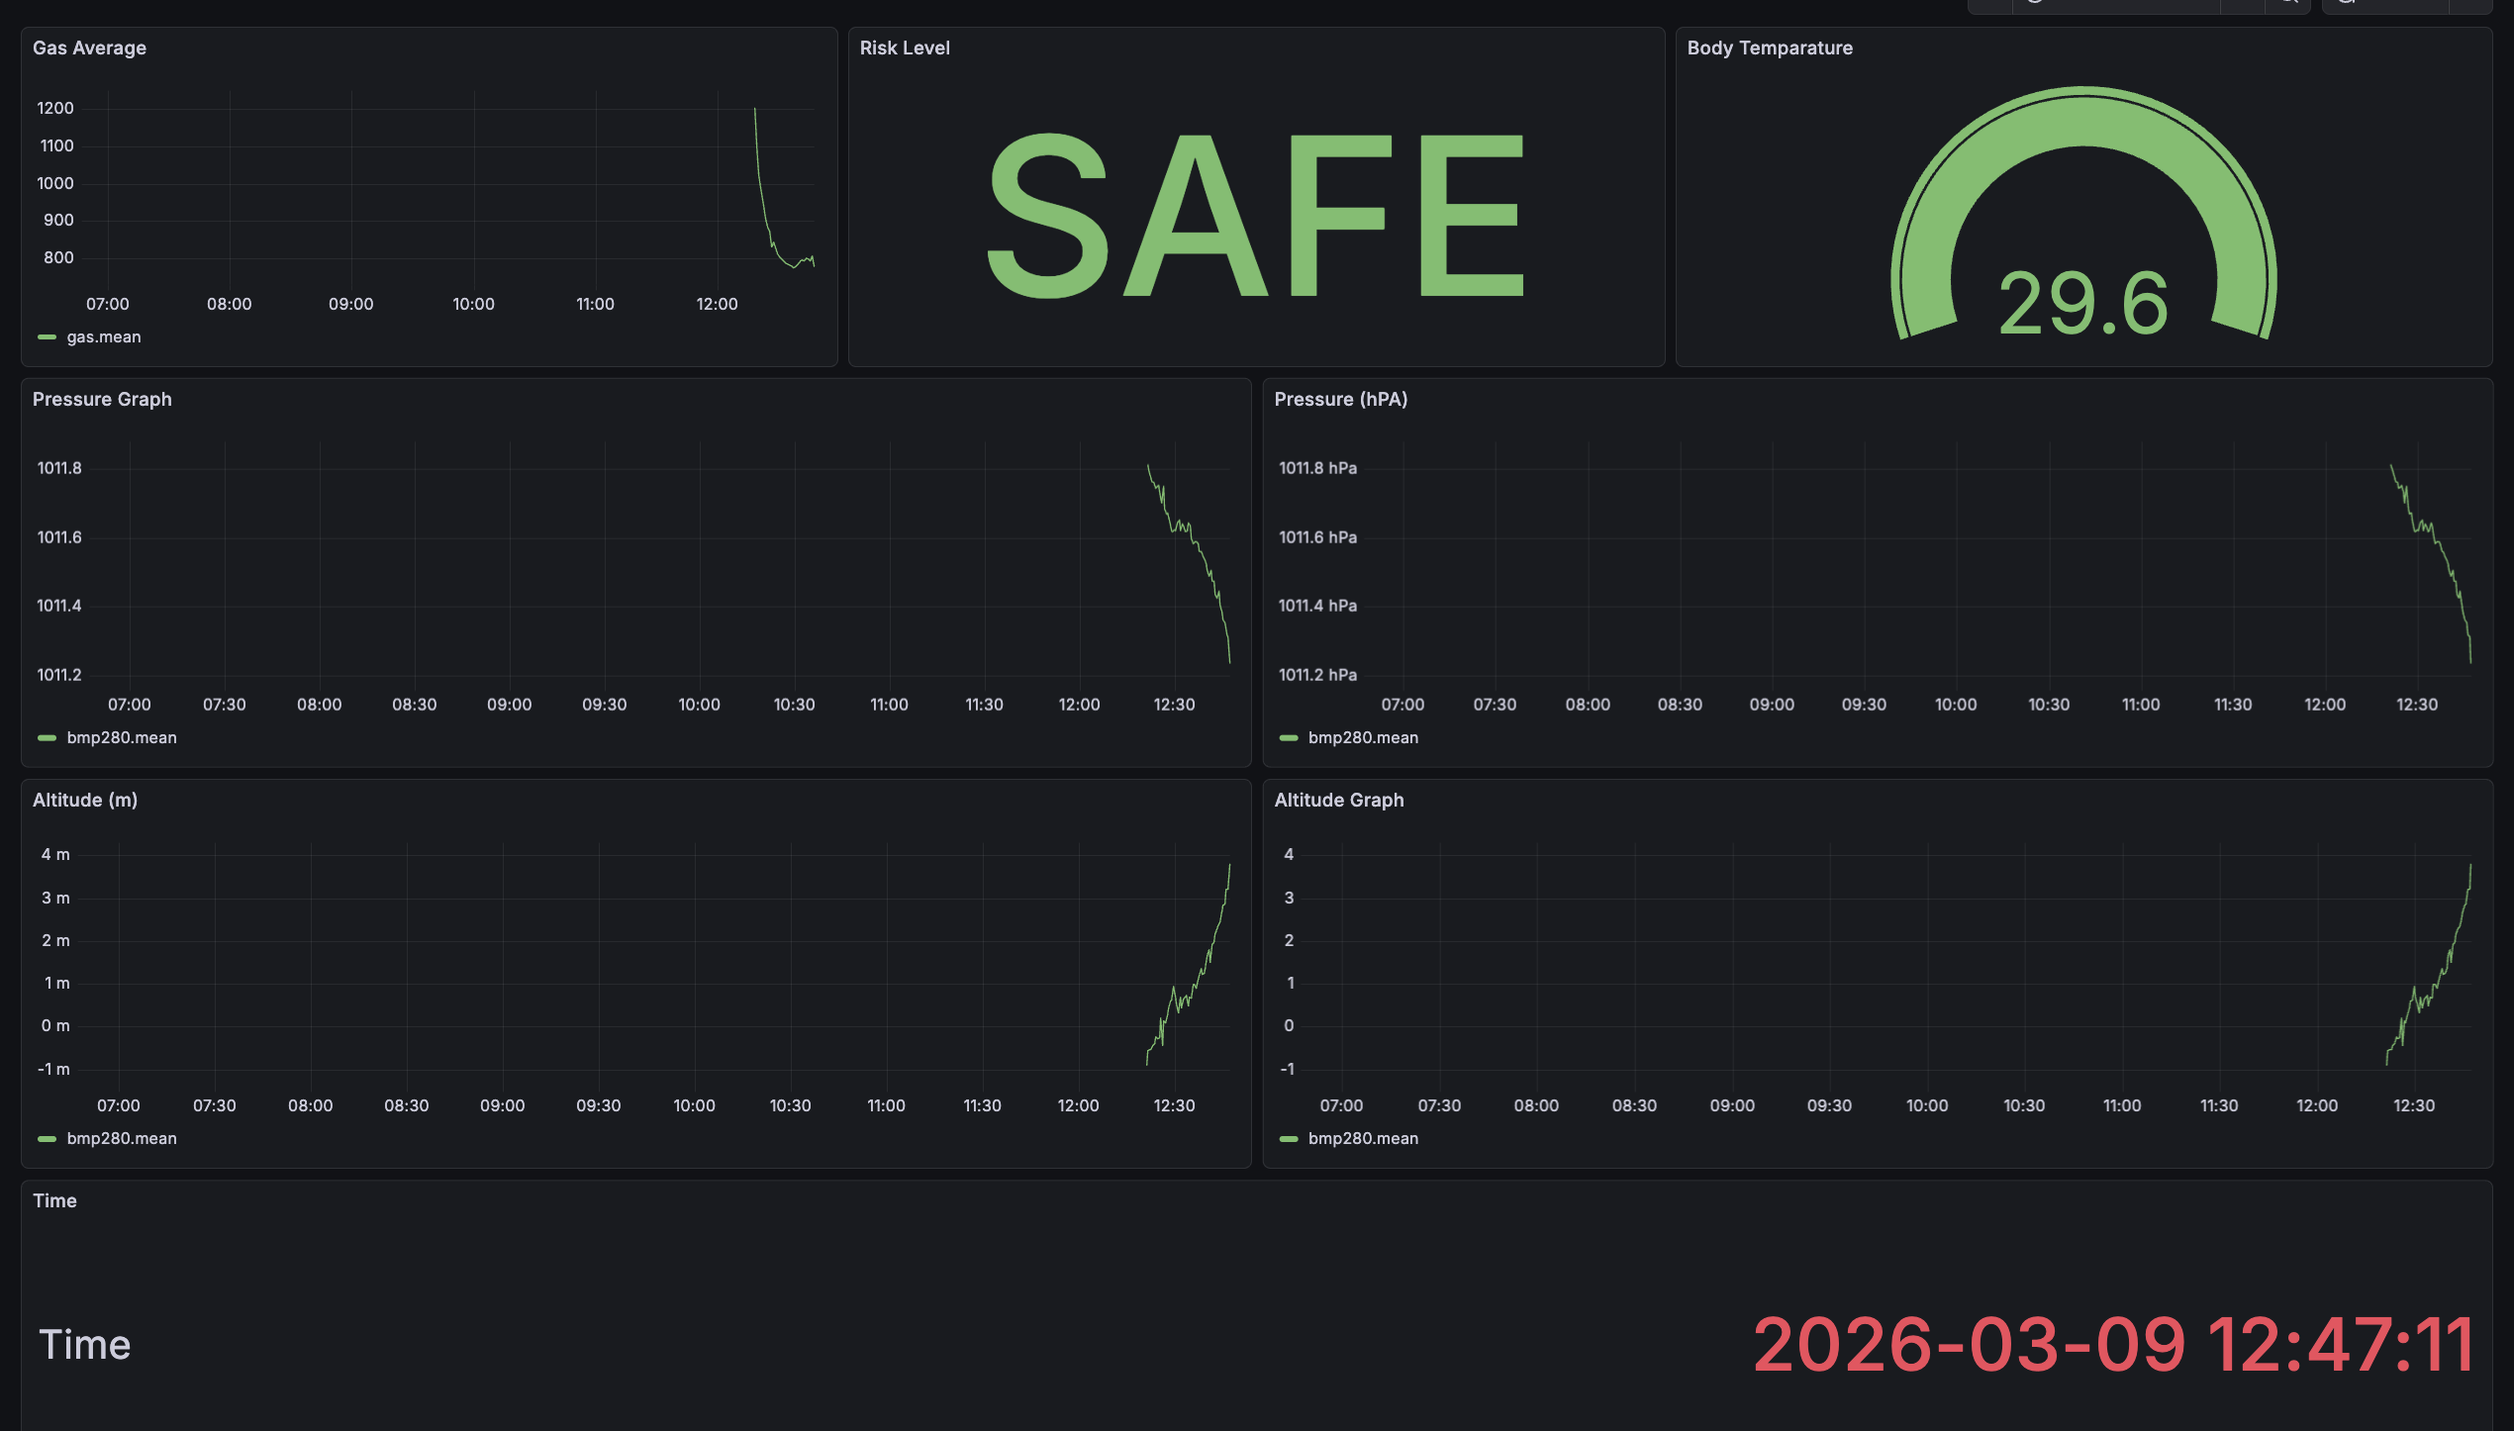
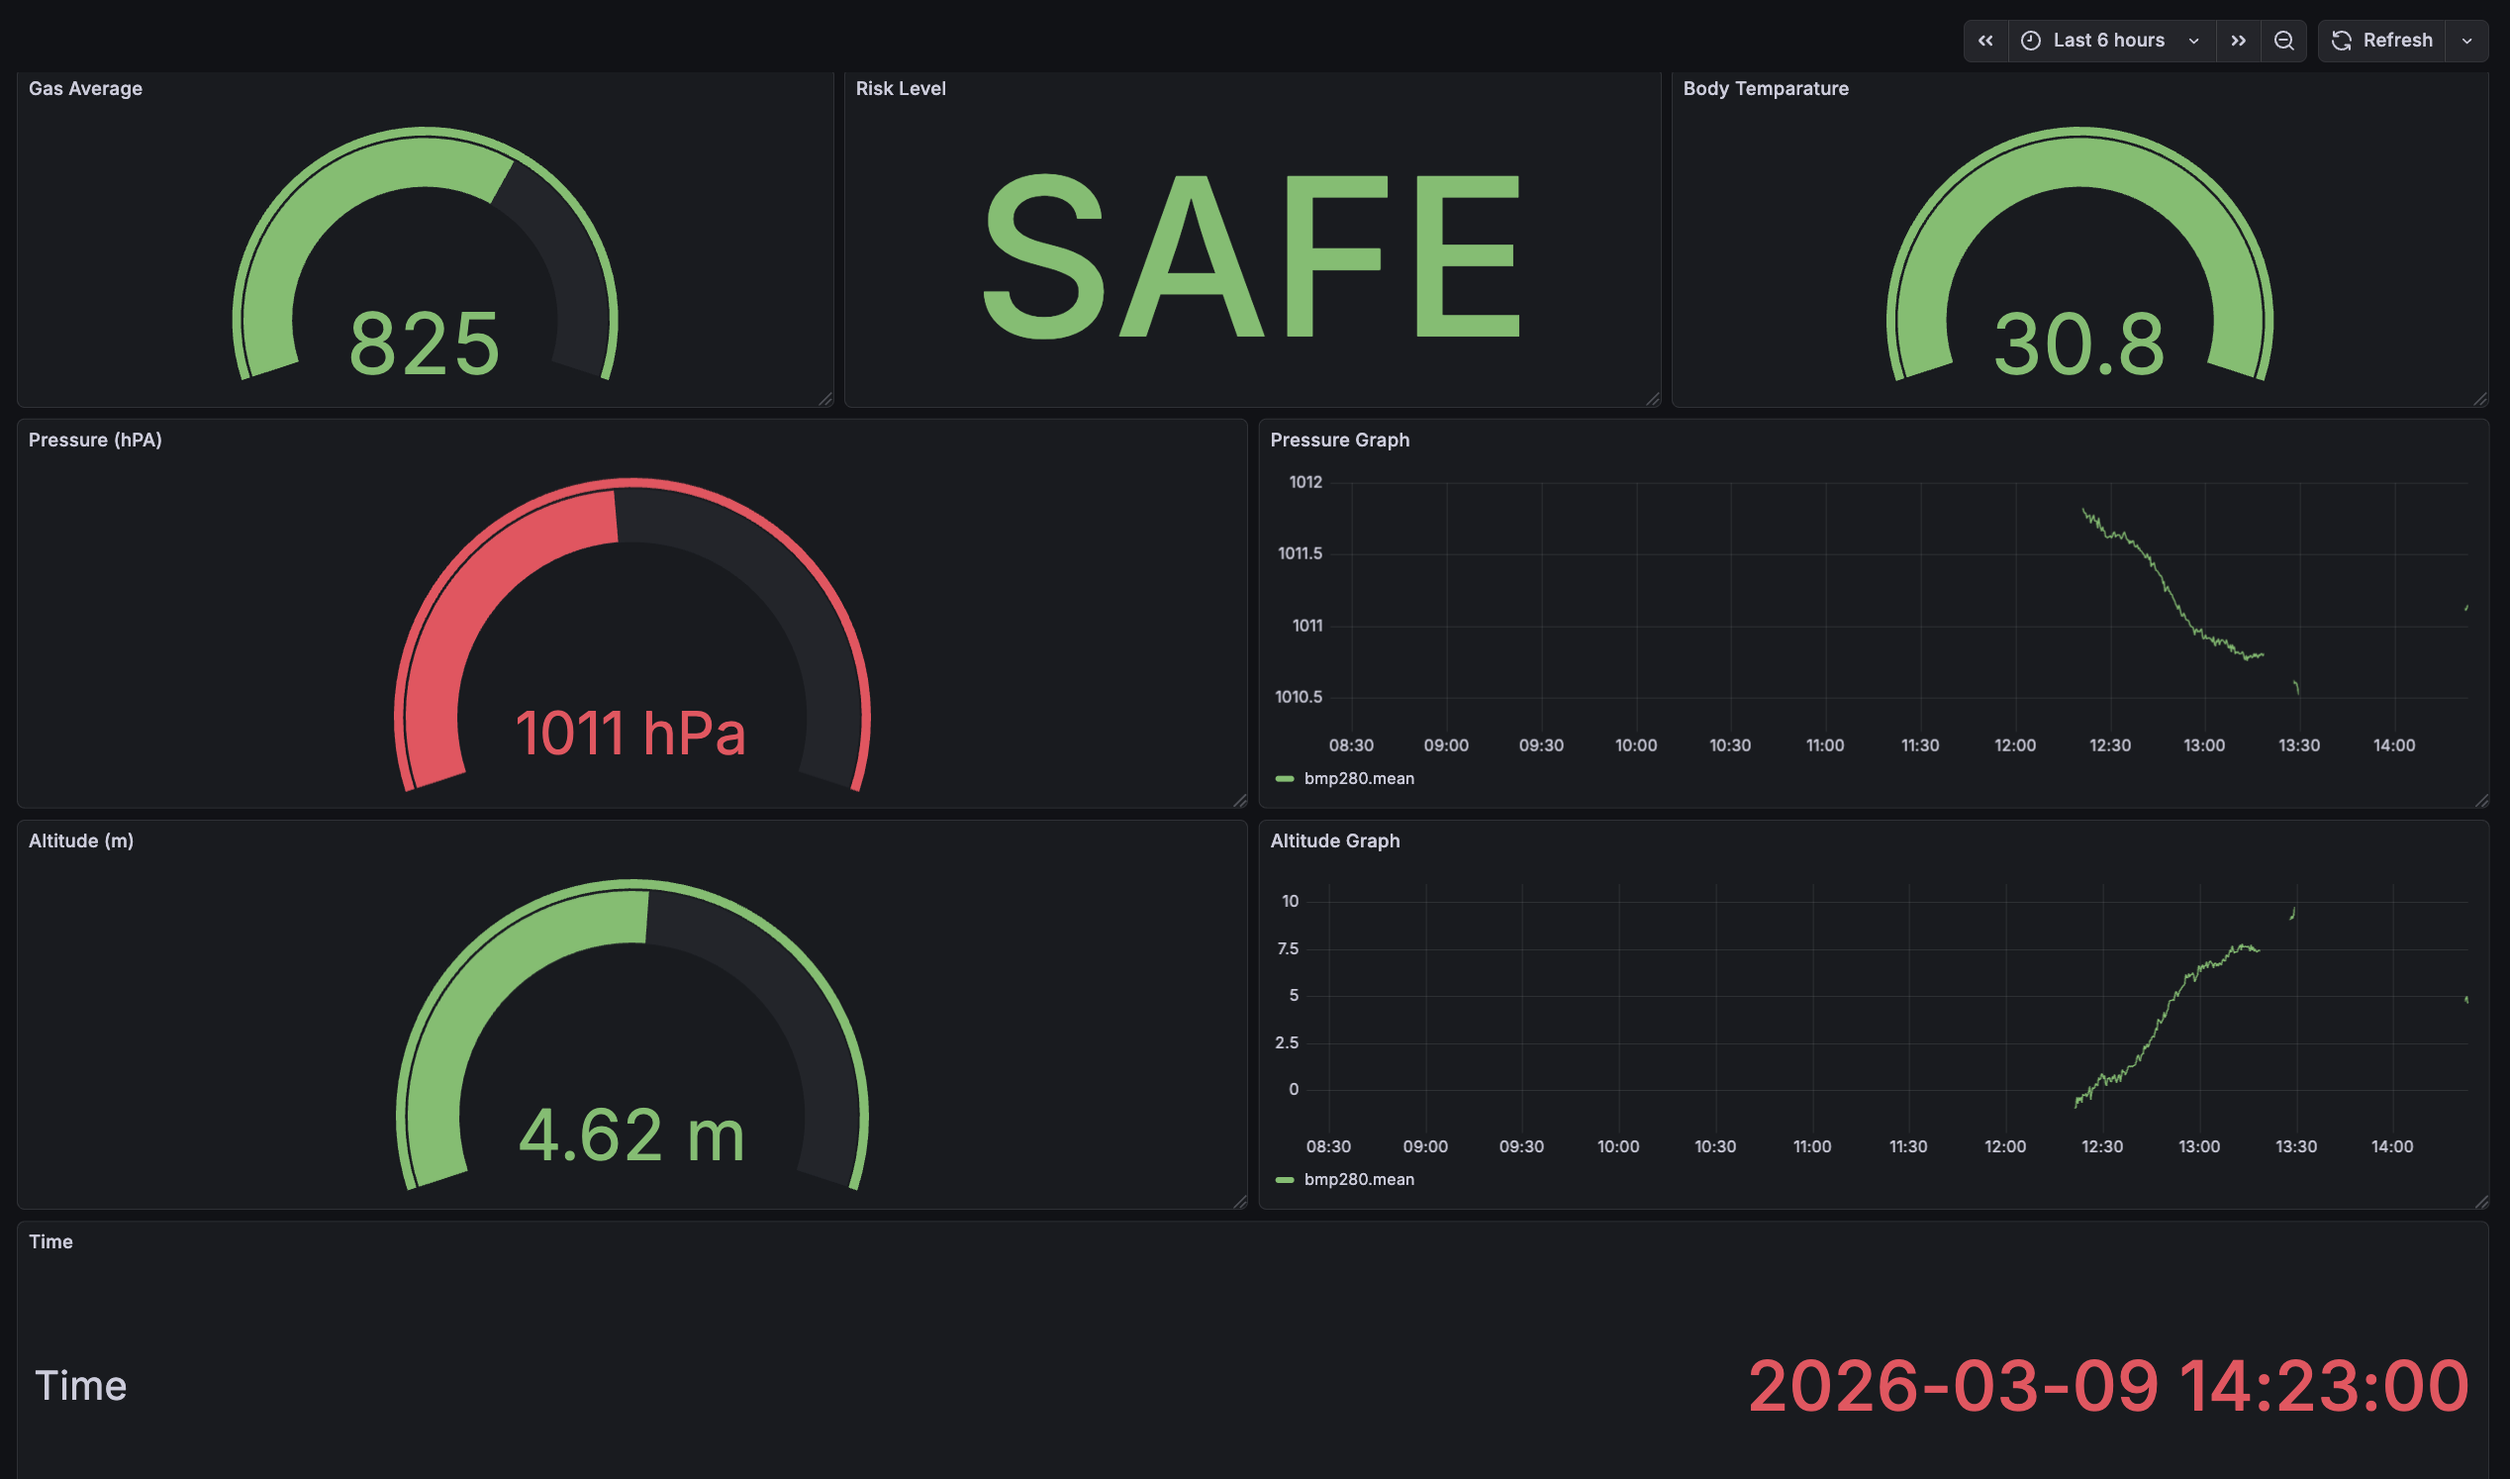
flowchart

diff --git a/Lab4/FlowChart/README.md b/Lab4/FlowChart/README.md
@@ -1,0 +1,45 @@
+## Complete Task Flowchart (Task 1-Task 4)
+
+```mermaid
+flowchart TD
+    A([Start Lab 4]) --> B[Task 1: MQ-5 setup on ESP32]
+    B --> B1[Read ADC gas value]
+    B1 --> B2[Apply 5-sample moving average]
+    B2 --> B3[Publish gas average to MQTT/Node-RED]
+
+    B3 --> C[Task 2: Gas risk logic]
+    C --> C1{Gas average level?}
+    C1 -->|< 2100| C2[SAFE]
+    C1 -->|2100-2599| C3[WARNING]
+    C1 -->|>= 2600| C4[DANGER]
+    C2 --> C5[Send JSON: raw, average, risk_level]
+    C3 --> C5
+    C4 --> C5
+
+    C5 --> D[Task 3: MLX90614 body temperature]
+    D --> D1[Read ambient_temp and body_temp]
+    D1 --> D2{body_temp >= 32.5C?}
+    D2 -->|Yes| D3[fever_flag = 1]
+    D2 -->|No| D4[fever_flag = 0]
+    D3 --> D5[Send JSON: ambient_temp, body_temp, fever_flag]
+    D4 --> D5
+
+    D5 --> E[Task 4: Integrated multi-sensor system]
+    E --> E1[Connect WiFi + MQTT]
+    E1 --> E2[MQ-5 loop every 1s]
+    E1 --> E3[BMP280 loop every 5s]
+    E2 --> E4[raw -> moving average -> risk_level]
+    E3 --> E5[temperature, pressure, altitude, timestamp]
+    E4 --> F[Publish gas topic JSON]
+    E5 --> G[Publish BMP280 topic JSON]
+
+    F --> H[Node-RED flow]
+    G --> H
+    H --> I[Parse + validate payload]
+    I --> J[Write time-series data to InfluxDB]
+    J --> K[Grafana dashboards and alerts]
+    K --> L([End: Real-time monitoring system])
+```
+
+---
+
